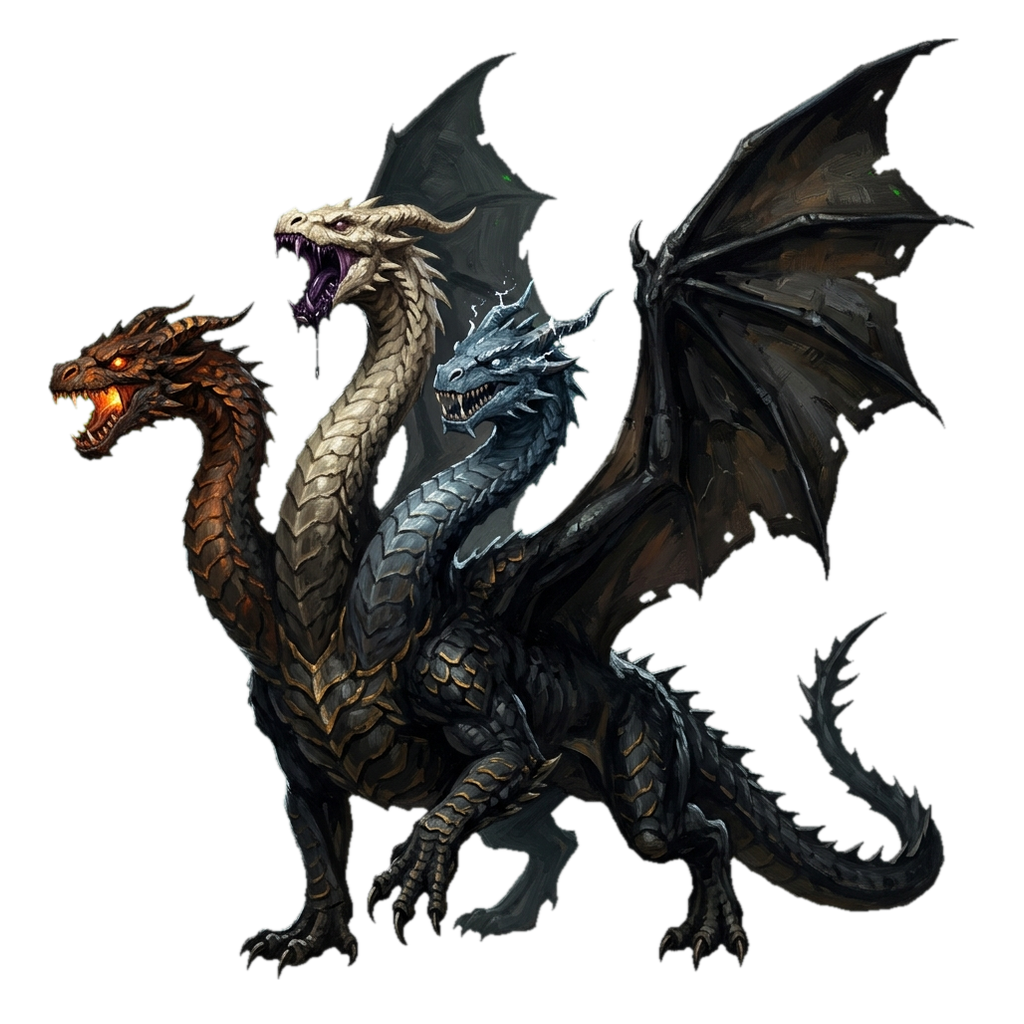
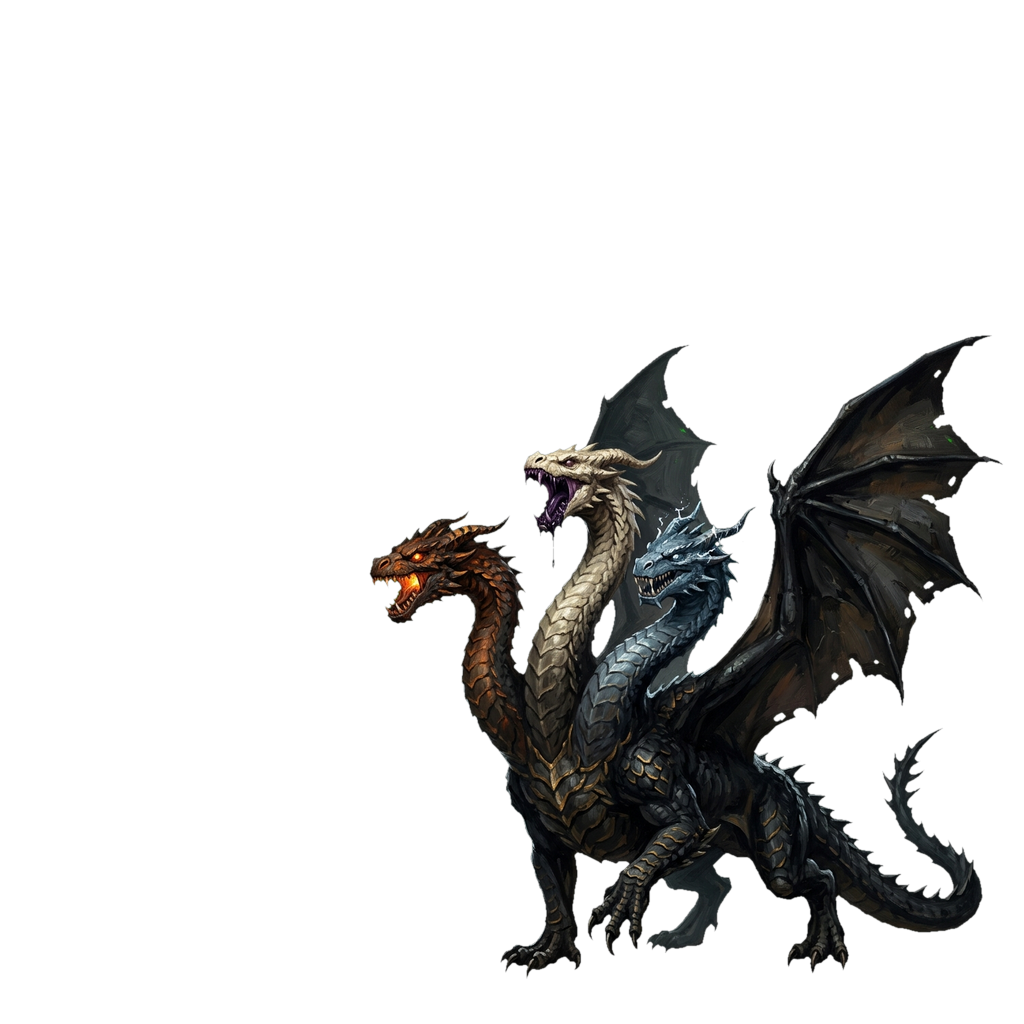
Gorynych's heads strike, reel, guard and cast in pictures of their own, and their attacks have their own: the fire head breathes flame, the venom head spits, the thunder head roars lightning (a foe's blow named after its move is drawn when painted). The dragon now stands at the right of a taller she

diff --git a/tools/gorynych_in.py b/tools/gorynych_in.py
@@ -31,6 +31,12 @@ ROOT = os.path.join(os.path.dirname(os.path.abspath(__file__)), "..")
 EN = os.path.join(ROOT, "assets", "enemies")
 SIDE = 1024
 HEADS = (("fire", (255, 0, 255)), ("poison", (0, 255, 255)), ("thunder", (255, 255, 0)))
+# how much of the sheet's width the dragon takes
+WIDE = 0.62
+# gor3_pad.png: gor3.png shrunk by 0.62 and set at (379, 359), green on the left for the breath
+PAD = (0.62, 379, 359)
+# blows of their own, painted on gor3_pad.png: gor3_<head>_<move>.png
+BREATH = {"fire": "fire_breath", "poison": "acid_spit", "thunder": "thunder_roar"}
 
 
 def main():
@@ -41,14 +47,24 @@ def main():
     mask = np.array(Image.open(pic("gor3_mask.png")).convert("RGB").resize(rest.size, Image.NEAREST)).astype(int)
     # one placing for all: the whole dragon's box, fitted to the sheet, feet near the bottom
     box = rest.getchannel("A").point(lambda v: 255 if v > 24 else 0).getbbox()
-    k = min(0.94 * SIDE / (box[2] - box[0]), 0.92 * SIDE / (box[3] - box[1]))
-    at = ((SIDE - round((box[2] - box[0]) * k)) // 2, round(SIDE * 0.957) - round((box[3] - box[1]) * k))
+    # the dragon stands at the right of its sheet, WIDE of it wide: the left is kept for the fire,
+    # venom and lightning its heads breathe out (see the game's stature for its height)
+    k = min(WIDE * SIDE / (box[2] - box[0]), 0.92 * SIDE / (box[3] - box[1]))
+    at = (SIDE - round((box[2] - box[0]) * k) - round(0.02 * SIDE), round(SIDE * 0.957) - round((box[3] - box[1]) * k))
 
     def place(im):
-        im = im.crop(box)
+        # the whole picture, not only the box: a head lunging past the resting outline keeps its snout
         im = im.resize((max(1, round(im.width * k)), max(1, round(im.height * k))), Image.LANCZOS)
         sheet = Image.new("RGBA", (SIDE, SIDE))
-        sheet.alpha_composite(im, at)
+        sheet.paste(im, (round(at[0] - box[0] * k), round(at[1] - box[1] * k)), im)
+        return sheet
+
+    def place_pad(im):
+        # a picture painted on gor3_pad.png: the dragon shrunk by PAD[0] and set at PAD[1:]
+        f = k / PAD[0]
+        im = im.resize((round(im.width * f), round(im.height * f)), Image.LANCZOS)
+        sheet = Image.new("RGBA", (SIDE, SIDE))
+        sheet.paste(im, (round(at[0] - box[0] * k - PAD[1] * f), round(at[1] - box[1] * k - PAD[2] * f)), im)
         return sheet
 
     R, B = np.array(place(rest)), np.array(place(body))
@@ -76,6 +92,42 @@ def main():
         seam = sel & ndimage.binary_dilation(held, iterations=3)
         ys, xs = np.nonzero(seam if seam.any() else sel)
         joints.append((name, xs.mean() / SIDE, ys.mean() / SIDE))
+    # poses: Flow pictures of the whole dragon with one head moved, `gor3_<head>_<pose>.png`; the
+    # head's pose picture is what moved (what differs from the whole dragon) and its own neck down
+    # over the stump, the part of it joined to that neck
+    for i, (name, _) in enumerate(HEADS):
+        own = np.array(out[f"gorynych_{name}_head"])[..., 3] > 24
+        for pose in ("strike", "hurt", "guard", "cast", BREATH[name]):
+            path = pic(f"gor3_{name}_{pose}.png")
+            if not os.path.exists(path):
+                continue
+            padded = pose == BREATH[name]
+            keyed = key_flood(Image.open(path).resize(rest.size, Image.LANCZOS), tol=90)
+            P = np.array(place_pad(keyed) if padded else place(keyed))
+            there = P[..., 3] > 24
+            moved = there & (~whole | (np.abs(P[..., :3].astype(int) - R[..., :3].astype(int)).sum(axis=2) > 70))
+            # a neck laid over the dark body differs from it only in places: close the gaps
+            moved = ndimage.binary_closing(ndimage.binary_opening(moved, iterations=2), iterations=10) & there
+            # what moved near this head, never another head's neck or the body
+            others = np.zeros_like(own)
+            for j, (n2, _) in enumerate(HEADS):
+                if j != i:
+                    others |= np.array(out[f"gorynych_{n2}_head"])[..., 3] > 24
+            # another head's neck stays out only where nothing moved: a lunge may cross it
+            keep = there & ((own & ~others) | moved)
+            lab, n = ndimage.label(keep)
+            if n > 1:
+                # the pieces of any size: specks of repaint elsewhere drop out
+                sizes = ndimage.sum(np.ones(lab.shape), lab, range(1, n + 1))
+                keep = np.isin(lab, [t + 1 for t, z in enumerate(sizes) if z > 0.08 * sizes.max()])
+            part = np.zeros_like(P)
+            part[keep] = P[keep]
+            if padded:
+                # fire, venom and lightning glow: the green ground shows through their soft edges
+                rgb = part[..., :3].astype(int)
+                rgb[..., 1] = np.minimum(rgb[..., 1], np.maximum(rgb[..., 0], rgb[..., 2]))
+                part[..., :3] = rgb.astype(np.uint8)
+            out[f"gorynych_{name}_{pose}"] = Image.fromarray(part)
     for name, im in out.items():
         path = os.path.join(EN, f"{name}-gemini.png")
         im.save(path)
@@ -93,6 +145,23 @@ def main():
         despeckle(os.path.join(EN, f"{name}-gemini.png"))
         corpses.append(sheet)
     # to look at: body alone, each head alone in its place, the heads over the body, the corpses
+    poses = [out[k] for k in out if any(k.endswith(p) for p in ("_strike", "_hurt", "_guard", "_cast"))]
+    for n, mv in BREATH.items():
+        if f"gorynych_{n}_{mv}" in out:
+            t = out["gorynych_body"].copy()
+            for n2, _ in HEADS:
+                t.alpha_composite(out[f"gorynych_{n}_{mv}"] if n2 == n else out[f"gorynych_{n2}_head"])
+            t.convert("RGBA").save(os.path.join(ROOT, "target", f"gorynych_{mv}.png"))
+    if poses:
+        # each pose over the body, to look at
+        ps = Image.new("RGBA", (4 * 320, 3 * 320), (90, 90, 90, 255))
+        for i, (n, _) in enumerate(HEADS):
+            for j, pose in enumerate(("strike", "hurt", "guard", "cast")):
+                t = out["gorynych_body"].copy()
+                for n2, _ in HEADS:
+                    t.alpha_composite(out.get(f"gorynych_{n}_{pose}") if n2 == n and f"gorynych_{n}_{pose}" in out else out[f"gorynych_{n2}_head"])
+                ps.alpha_composite(t.resize((320, 320)), (j * 320, i * 320))
+        ps.convert("RGB").save(os.path.join(ROOT, "target", "gorynych_poses.png"))
     tiles = [out["gorynych_body"]] + [out[f"gorynych_{n}_head"] for n, _ in HEADS]
     over = out["gorynych_body"].copy()
     for n, _ in HEADS:

diff --git a/crates/game/src/battle.rs b/crates/game/src/battle.rs
@@ -897,7 +897,7 @@ fn sync_units(
         let wide = (!is_hero || stem == "heroes/emelya") && art.aspect(&stem).is_some_and(|a| a > 0.9);
         // a foe of known stature is drawn as tall as it stands, a raven small, a giant huge
         let tall = match unit {
-            UnitRef::Enemy(uid) => shown.enemy(uid).and_then(|e| stature::height_of(&e.def)),
+            UnitRef::Enemy(uid) => shown.enemy(uid).and_then(|e| gorynych::height_of(&e.def).or_else(|| stature::height_of(&e.def))),
             UnitRef::Hero(_) => None,
         };
         let draw = match tall {
@@ -941,7 +941,7 @@ fn sync_units(
                 u.spawn((
                     // over a picture that spills above its slot, the intent rises with it, so it
                     // stays over the head and not on the face
-                    Node { height: px(HEAD_ROOM), align_items: AlignItems::Center, top: px(-(draw.y - size.y)), left: px(gorynych::intent_shift(&def)), ..default() },
+                    Node { height: px(HEAD_ROOM), align_items: AlignItems::Center, top: px(-(draw.y - size.y) + gorynych::head_top(&def) * draw.y), left: px(gorynych::intent_shift(&def)), ..default() },
                     // text is never hidden by a sprite, this unit's or a neighbour's
                     GlobalZIndex(20),
                     Pickable::IGNORE,
@@ -1143,6 +1143,7 @@ pub(crate) fn pose_base(mut stem: &str) -> &str {
 
 fn swap_form_art(
     session: Res<Session>,
+    db: Res<Db>,
     art: Res<Art>,
     assets: Res<AssetServer>,
     mut preloaded: Local<Preloaded>,
@@ -1159,6 +1160,14 @@ fn swap_form_art(
             for mark in ["", "_headless", "_noweapon", "_noshield", "_noarms", "_headless_noweapon", "_headless_noshield", "_headless_noarms"] {
                 for pose in ["", "_strike", "_cast", "_hurt", "_guard", "_downed"] {
                     if let Some(handle) = art.image(&assets, &format!("{stem}{mark}{pose}")) {
+                        preloaded.handles.push(handle);
+                    }
+                }
+            }
+            // a foe's own blows (see `blow` below)
+            if let Some(def) = stem.strip_prefix("enemies/").and_then(|d| db.0.enemies.get(d)) {
+                for mv in &def.moves {
+                    if let Some(handle) = art.image(&assets, &format!("{stem}_{}", mv.id)) {
                         preloaded.handles.push(handle);
                     }
                 }
@@ -1210,7 +1219,20 @@ fn swap_form_art(
         if downed && painted && art.image(&assets, &format!("{want}_downed")).is_some() {
             want = format!("{want}_downed");
         }
-        if let Some(pose) = pose.filter(|_| !downed && painted) {
+        // a foe's blow may have a picture of its own, named after the move: Gorynych's heads
+        // breathe fire, spit venom and roar thunder instead of only lunging
+        let blow = match (s.unit, s.anim) {
+            (UnitRef::Enemy(uid), Some((Anim::Lunge, t))) if (0.12..0.38).contains(&t) => session
+                .shown
+                .enemy(uid)
+                .and_then(|e| e.intent.as_ref().and_then(|i| db.0.enemies.get(&e.def)?.moves.get(i.mv)))
+                .map(|m| format!("{want}_{}", m.id))
+                .filter(|b| art.image(&assets, b).is_some()),
+            _ => None,
+        };
+        if let Some(b) = blow {
+            want = b;
+        } else if let Some(pose) = pose.filter(|_| !downed && painted) {
             if art.image(&assets, &format!("{want}{pose}")).is_some() {
                 want = format!("{want}{pose}");
             }

diff --git a/crates/game/src/battle/gorynych.rs b/crates/game/src/battle/gorynych.rs
@@ -7,20 +7,31 @@
 use bevy::prelude::*;
 use nav_core::Combat;
 
-use super::{stands, stature, UnitLayer};
+use super::{stands, UnitLayer};
 use crate::art::Art;
 
 /// Where on its picture each head is (as a fraction of the sheet's width), in the order the
 /// heads stand from left to right.
-const HEADS: [(&str, f32); 3] = [("gorynych_fire", 0.236), ("gorynych_poison", 0.385), ("gorynych_thunder", 0.476)];
+const HEADS: [(&str, f32); 3] = [("gorynych_fire", 0.437), ("gorynych_poison", 0.624), ("gorynych_thunder", 0.709)];
+/// Where the dragon's middle is on its sheet: it stands at the right, the left is kept for the
+/// fire, venom and lightning its heads breathe (tools/gorynych_in.py, WIDE).
+const DRAGON_X: f32 = 0.671;
 
 fn head(def: &str) -> Option<f32> {
     HEADS.iter().find(|(d, _)| *d == def).map(|(_, x)| *x)
 }
 
-/// How tall the dragon is drawn: the sheet is square.
+/// How tall the dragon's sheet is drawn (it is square). The dragon fills only part of it, the rest
+/// is room for its breath, so it is drawn past the tallest stature the others may have.
+const SHEET: f32 = 800.0;
+
 fn height() -> f32 {
-    stature::height_of(HEADS[0].0).unwrap_or(380.0)
+    SHEET
+}
+
+/// The drawn height of a head's picture, or None for any other foe.
+pub(super) fn height_of(def: &str) -> Option<f32> {
+    head(def).map(|_| SHEET)
 }
 
 /// The dragon's feet: the place of the first of its heads in the fight.
@@ -34,7 +45,7 @@ fn feet(shown: &Combat) -> Option<Vec2> {
 /// its health stand over it. `shift` is how far its picture must move back to sit on the body.
 pub(super) fn place(shown: &Combat, def: &str) -> Option<Vec2> {
     let x = head(def)?;
-    Some(feet(shown)? + Vec2::new(shift_of(x), 0.0))
+    Some(feet(shown)? + Vec2::new((x - DRAGON_X) * height(), 0.0))
 }
 
 fn shift_of(x: f32) -> f32 {
@@ -56,6 +67,17 @@ pub(super) fn rank(def: &str) -> Option<usize> {
 /// would cover one another.
 pub(super) fn intent_shift(def: &str) -> f32 {
     rank(def).map_or(0.0, |r| (r as f32 - 1.0) * 70.0)
+}
+
+/// How far down its sheet a head's top is: its intent stands just over it, not over the empty
+/// sky the sheet keeps for the breath.
+pub(super) fn head_top(def: &str) -> f32 {
+    match def {
+        "gorynych_fire" => 0.44,
+        "gorynych_poison" => 0.33,
+        "gorynych_thunder" => 0.39,
+        _ => 0.0,
+    }
 }
 
 /// A head struck off always flies.
@@ -87,7 +109,7 @@ pub(super) fn draw_body(
     let Some(layer) = layer else { return };
     let any_alive = shown.enemies.iter().any(|e| e.alive && head(&e.def).is_some());
     let h = height();
-    let standing = Node { position_type: PositionType::Absolute, left: px(foot.x - h / 2.0), top: px(foot.y - h), width: px(h), height: px(h), ..default() };
+    let standing = Node { position_type: PositionType::Absolute, left: px(foot.x - h * DRAGON_X), top: px(foot.y - h), width: px(h), height: px(h), ..default() };
     let lying = Node { position_type: PositionType::Absolute, left: px(foot.x - h * 0.75), top: px(foot.y - h), width: px(h * 1.5), height: px(h), ..default() };
     match bodies.iter_mut().next() {
         None => {

diff --git a/crates/game/src/battle/rig.rs b/crates/game/src/battle/rig.rs
@@ -144,9 +144,9 @@ const FIGURES: &[(&str, &[Cut])] = &[
     ("enemies/gagana", &[(Part::Head, Vec2::new(0.292, 0.259), 1.0), (Part::Shield, Vec2::new(0.789, 0.573), 0.8), (Part::Arm, Vec2::new(0.571, 0.182), 1.0)]),
     // Gorynych's heads are units of their own: each is drawn as its head and neck alone over an
     // empty body, on the one sheet the shared body (`battle::gorynych`) is drawn on
-    ("enemies/gorynych_fire", &[(Part::Head, Vec2::new(0.236, 0.501), 1.0)]),
-    ("enemies/gorynych_poison", &[(Part::Head, Vec2::new(0.385, 0.301), 1.0)]),
-    ("enemies/gorynych_thunder", &[(Part::Head, Vec2::new(0.476, 0.406), 1.0)]),
+    ("enemies/gorynych_fire", &[(Part::Head, Vec2::new(0.494, 0.671), 1.0)]),
+    ("enemies/gorynych_poison", &[(Part::Head, Vec2::new(0.609, 0.475), 1.0)]),
+    ("enemies/gorynych_thunder", &[(Part::Head, Vec2::new(0.666, 0.598), 1.0)]),
     ("enemies/solovey", &[(Part::Head, Vec2::new(0.379, 0.303), 1.0), (Part::Shield, Vec2::new(0.378, 0.258), 0.8), (Part::Arm, Vec2::new(0.279, 0.269), 1.0)]),
     ("enemies/korochun", &[(Part::Head, Vec2::new(0.496, 0.219), 1.0), (Part::Shield, Vec2::new(0.661, 0.436), 0.8), (Part::Arm, Vec2::new(0.172, 0.202), 1.0)]),
     ("enemies/vodyanoy_tsar", &[(Part::Head, Vec2::new(0.473, 0.405), 1.0), (Part::Shield, Vec2::new(0.657, 0.472), 0.8), (Part::Arm, Vec2::new(0.148, 0.037), 1.0)]),
